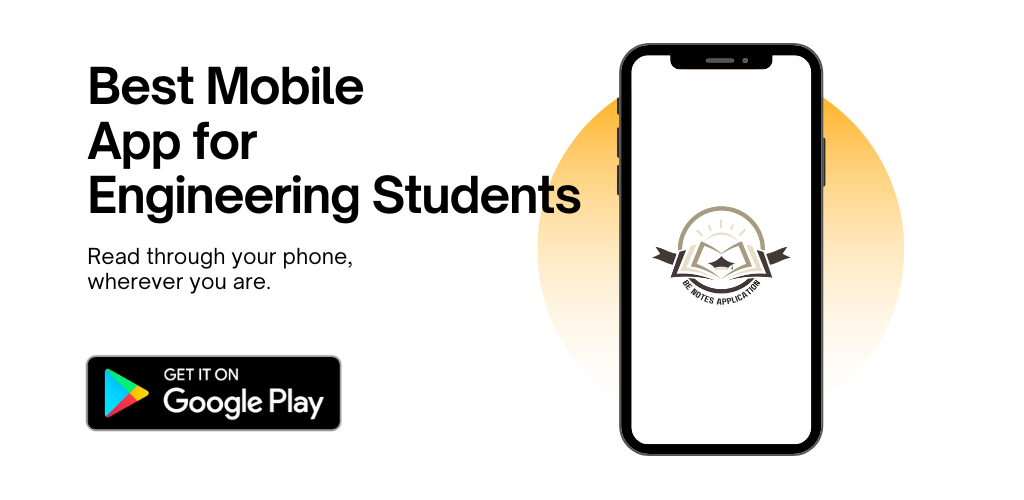
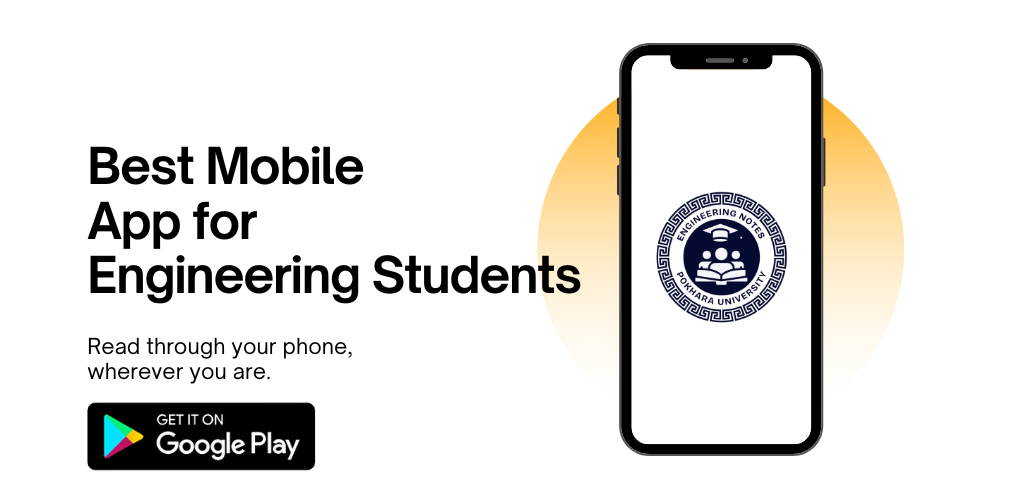
Updated the app name and feature graphics

diff --git a/readme.md b/readme.md
@@ -1,13 +1,13 @@
-# 📚 BE Notes – Pokhara University Engineering Notes
+# 📚 Engineering Notes – Pokhara University Engineering Notes
 
 > **📢 Important Notice:**  
 > This repository (`BE-Computer`) has been **migrated**!  
-> All notes, syllabus, and study materials from **2022 to the latest** are now available in our new **BE Notes mobile application**.  
+> All notes, syllabus, and study materials from **2022 to the latest** are now available in our new **Engineering Notes mobile application**.  
 > Get the app today for **faster access, offline mode, and better navigation**.
 
 ---
 
-## 📲 Download the Official BE Notes App
+## 📲 Download the Official Engineering Notes App
 
 [![Get it on Google Play](https://play.google.com/intl/en_us/badges/static/images/badges/en_badge_web_generic.png)](https://play.google.com/store/apps/details?id=com.be.notes&pli=1)
 
@@ -20,11 +20,11 @@
 
 ## 🖼 Feature Graphic
 
-![BE Notes Feature Graphic](https://raw.githubusercontent.com/su-resh/BE-Computer/refs/heads/main/feature-graphics.png)
+![Engineering Notes Feature Graphic](https://raw.githubusercontent.com/su-resh/BE-Computer/refs/heads/main/feature-graphics.png)
 
 ---
 
-## ✨ Key Features of BE Notes
+## ✨ Key Features of Engineering Notes
 
 - **📚 Complete Syllabus & Notes** – For **all semesters** and **all engineering branches** (Computer, Civil, Electrical, Mechanical, etc.)
 - **🆕 Always Updated** – Aligned with the **latest Pokhara University (PU)** syllabus
@@ -36,17 +36,17 @@
 
 ---
 
-## 🏫 About BE Notes
+## 🏫 About Engineering Notes
 
-**BE Notes** is designed specifically for **Pokhara University (PU)** Bachelor of Engineering students to make learning simpler and more accessible.  
-Whether you’re preparing for exams, revising topics, or looking up assignments, BE Notes is your go-to study companion.
+**Engineering Notes** is designed specifically for **Pokhara University (PU)** Bachelor of Engineering students to make learning simpler and more accessible.  
+Whether you’re preparing for exams, revising topics, or looking up assignments, Engineering Notes is your go-to study companion.
 
 ---
 
 ## 🛠 About This Repository
 
 - This GitHub repository **will no longer be updated**.
-- All future updates, new subjects, and features will be exclusively available in the **BE Notes App**.
+- All future updates, new subjects, and features will be exclusively available in the **Engineering Notes App**.
 
 ---
 
